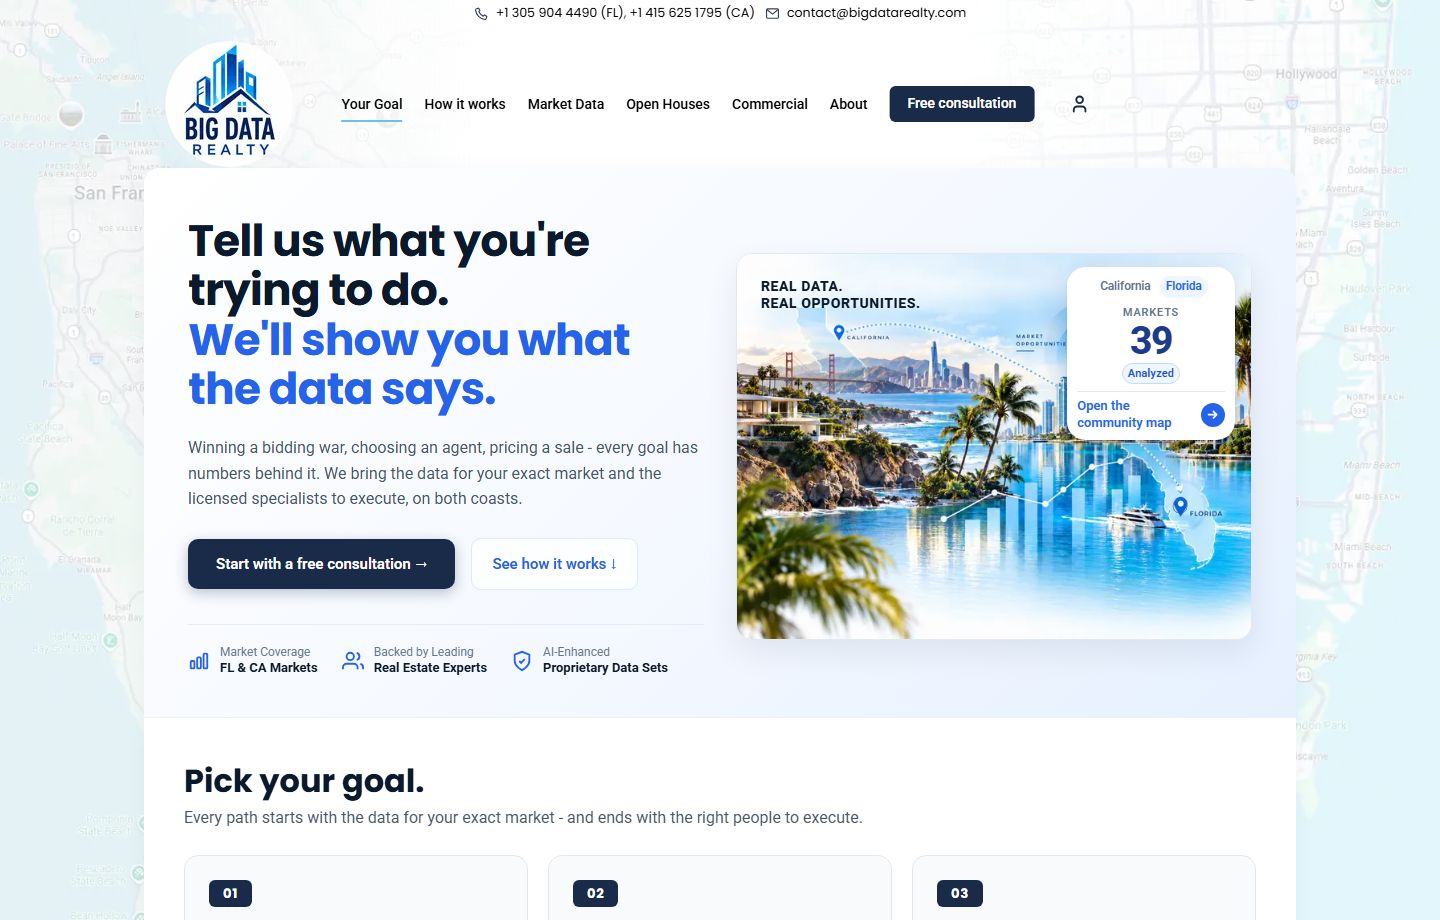
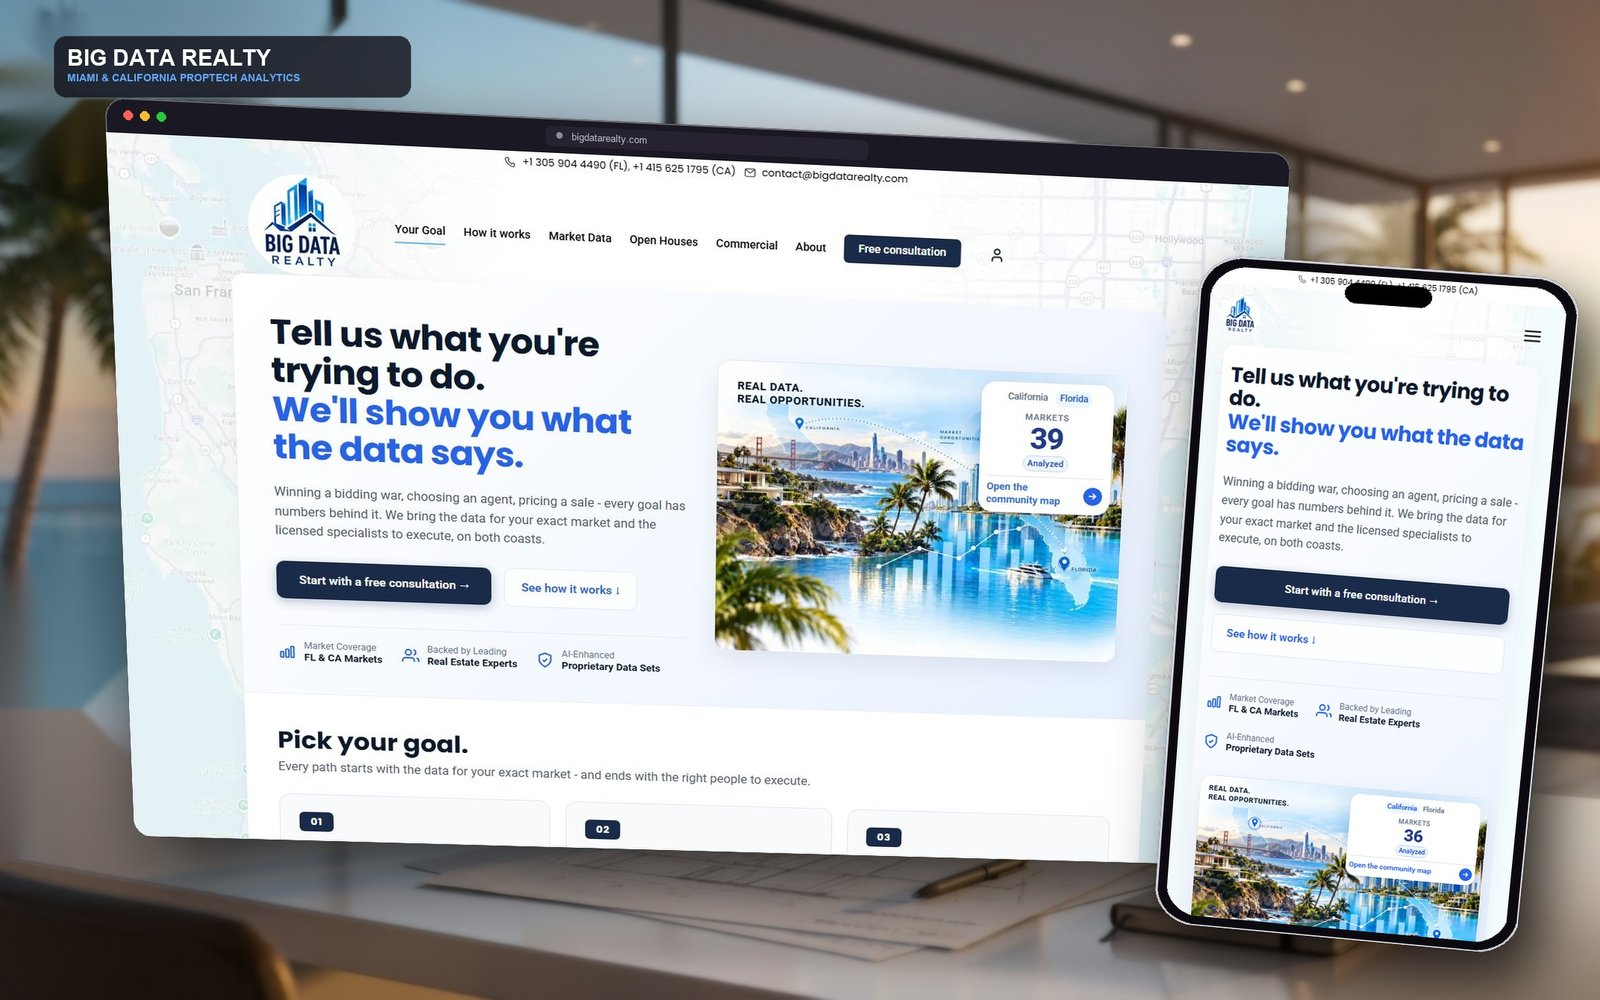
feat(portfolio): update Big Data Realty cover to optimized 3D showcase

diff --git a/lib/data.ts b/lib/data.ts
@@ -24,7 +24,7 @@ export const portfolioItems: PortfolioItem[] = [
       en: "Miami real estate market analytics platform: price trend prediction, investment dashboards, and ROI yield metrics.",
       sr: "Analitička platforma za tržište nekretnina u Majamiju: predviđanje kretanja cena, investicioni kontrolni paneli i metrički pokazatelji prinosa.",
     },
-    image: "/portfolio/bigdatarealty.jpg",
+    image: "/portfolio/bigdatarealty.webp",
     url: "https://bigdatarealty.com",
     status: "live",
   },

diff --git a/components/HomeView.tsx b/components/HomeView.tsx
@@ -38,7 +38,7 @@ export const HomeView: React.FC = () => {
     {
       title: "Big Data Realty",
       tag: "USA / Proptech",
-      image: "/portfolio/bigdatarealty.jpg",
+      image: "/portfolio/bigdatarealty.webp",
       desc: {
         ru: "Аналитический портал и блог о трендах на рынке недвижимости США.",
         en: "Analytics portal & research platform tracking US real estate market data.",
